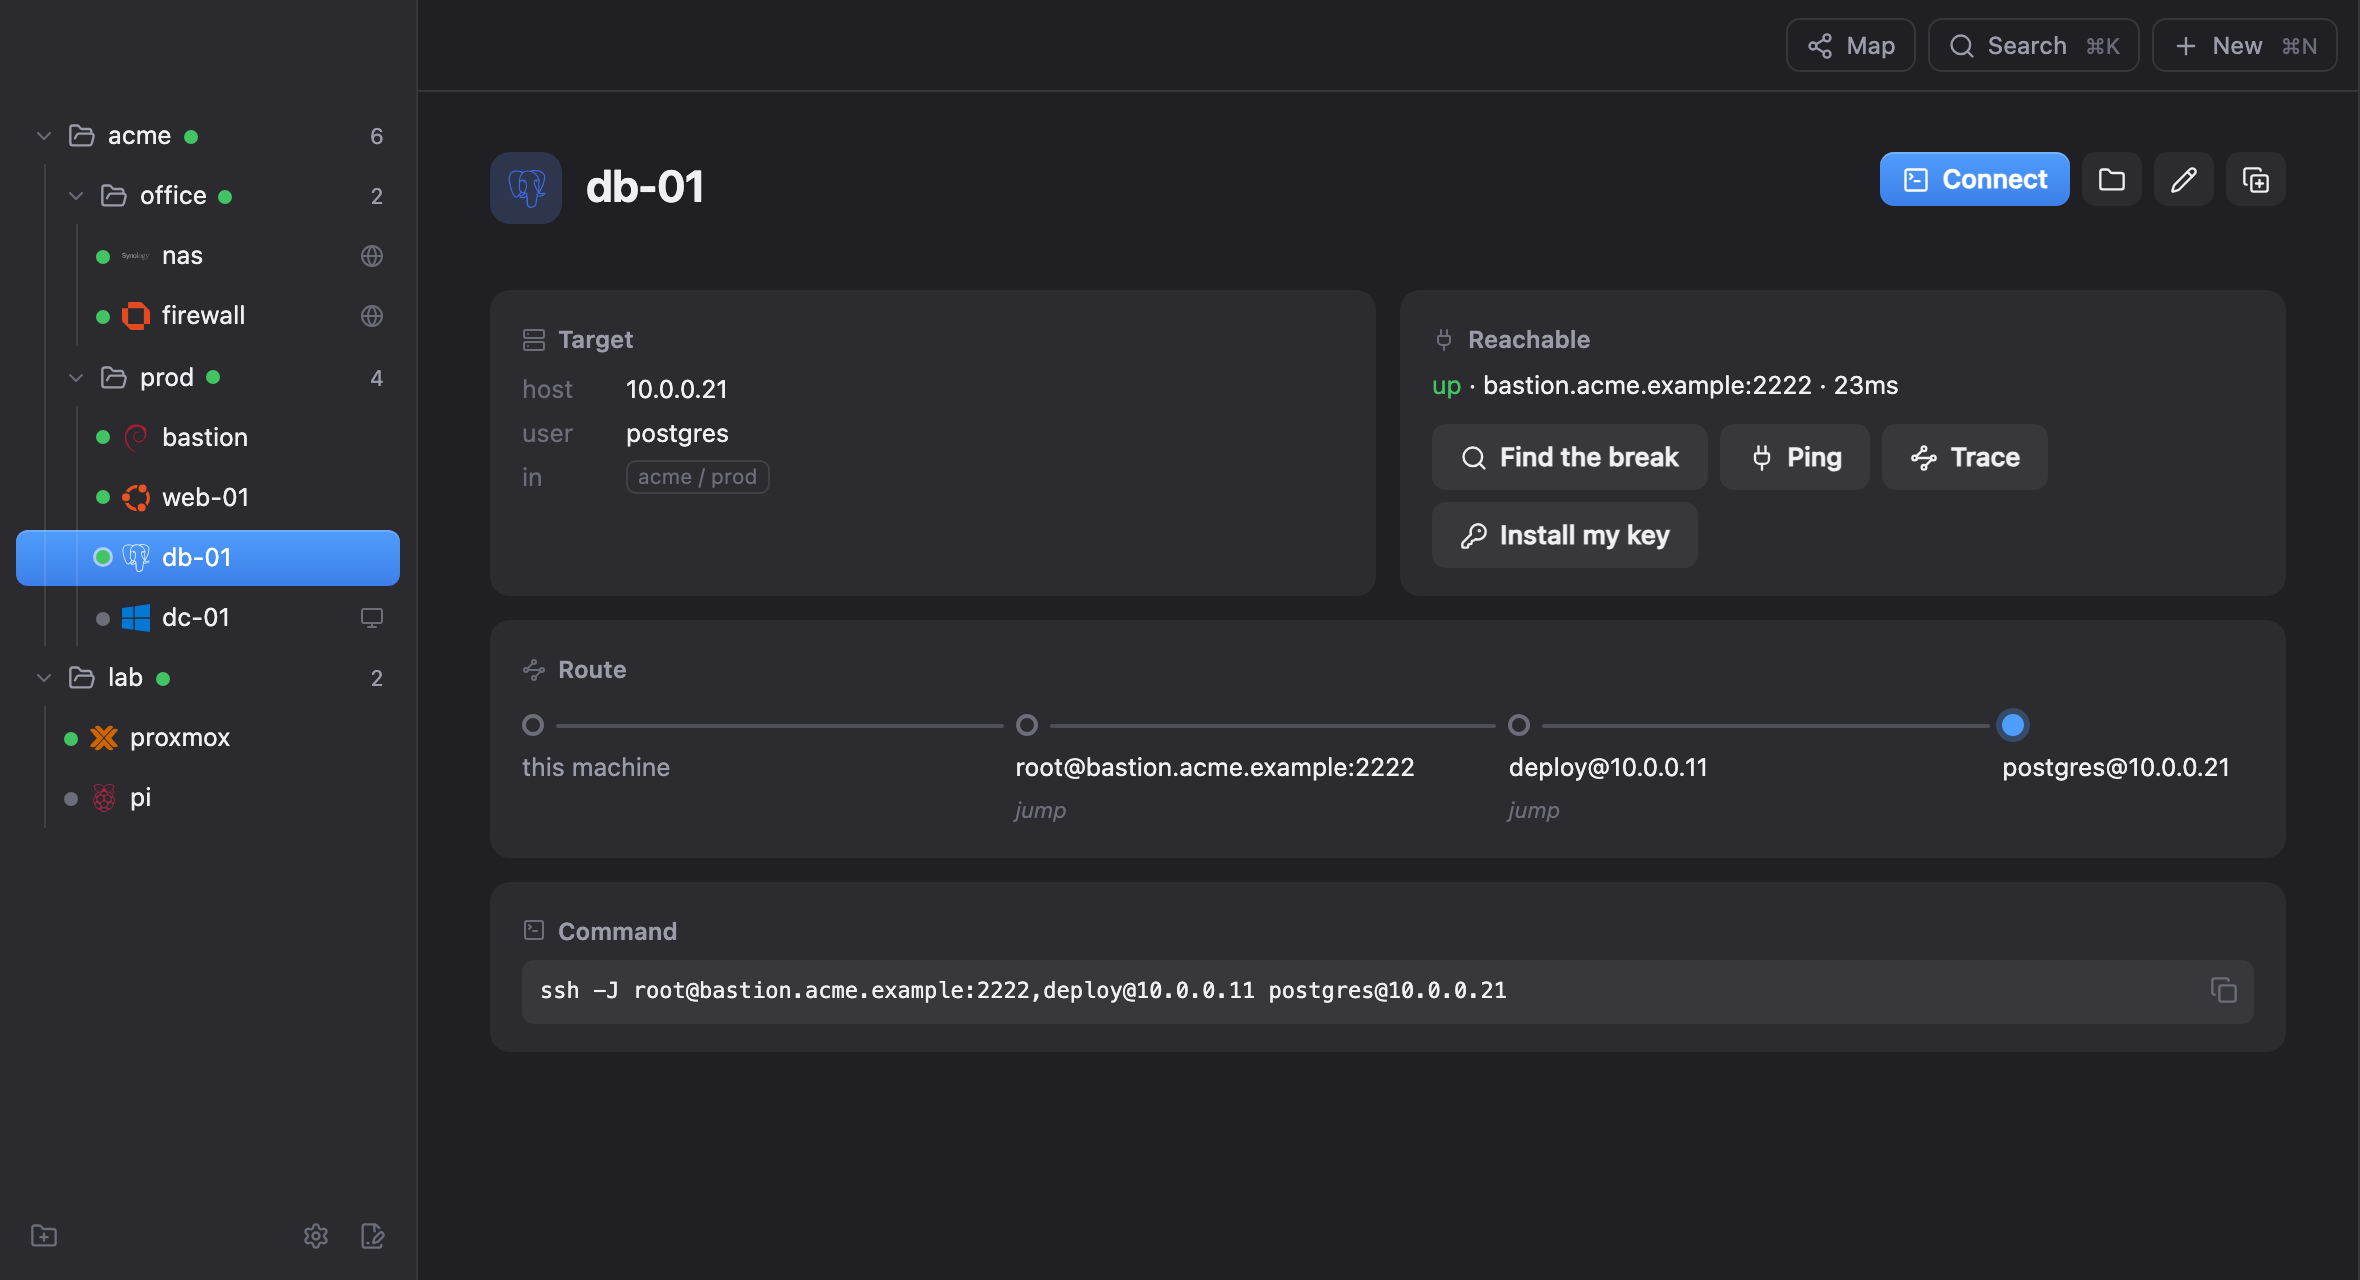
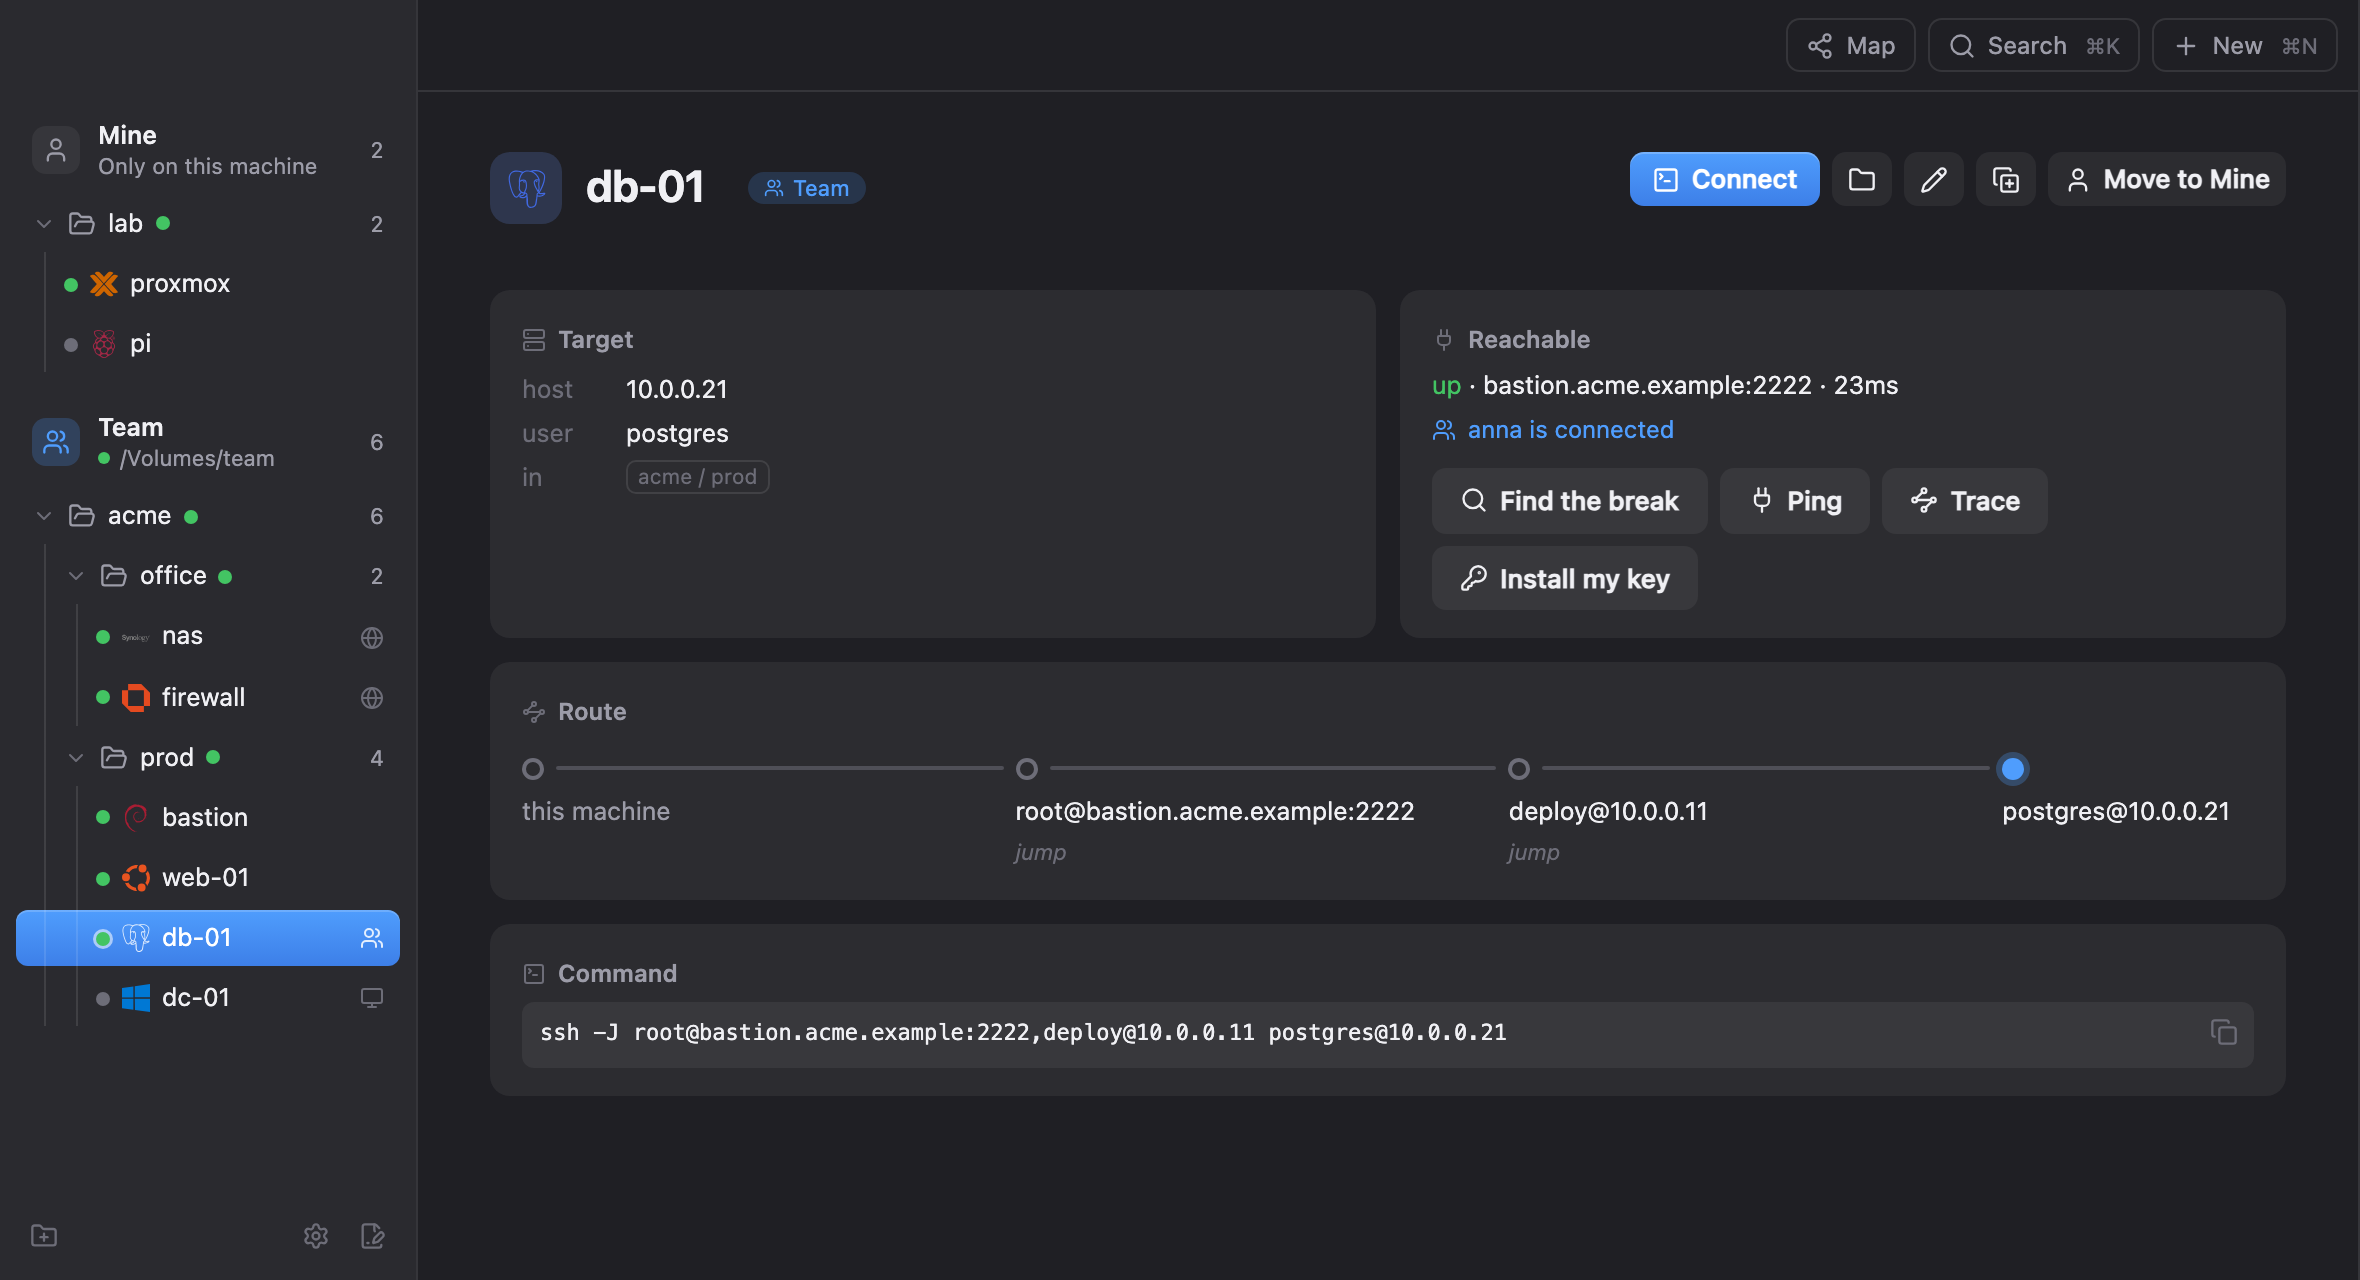
readme: the screenshot shows Mine and Team, and a colleague on the selected device
The old one was a single list, so it showed neither of the things the team half is for.
Still the real window over mock data only.

diff --git a/README.md b/README.md
@@ -30,7 +30,7 @@
 <p align="center">
   <picture>
     <source media="(prefers-color-scheme: dark)" srcset="assets/screenshot-dark.png">
-    <img src="assets/screenshot-light.png" alt="patchbay: folders of devices in the sidebar, and a database behind two jump hosts with its route drawn from this machine" width="880">
+    <img src="assets/screenshot-light.png" alt="patchbay: your devices and the team's in two vaults, and a database behind two jump hosts that a colleague is connected to, with its route drawn from this machine" width="880">
   </picture>
 </p>
 
